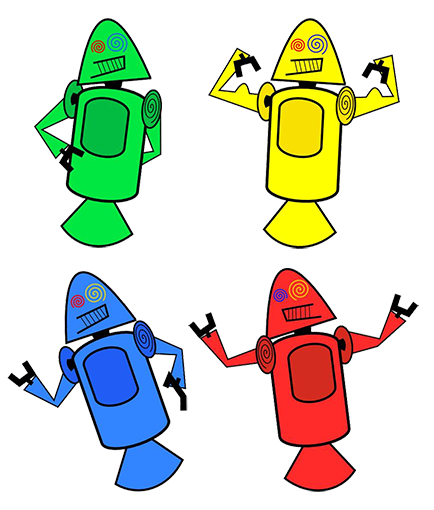
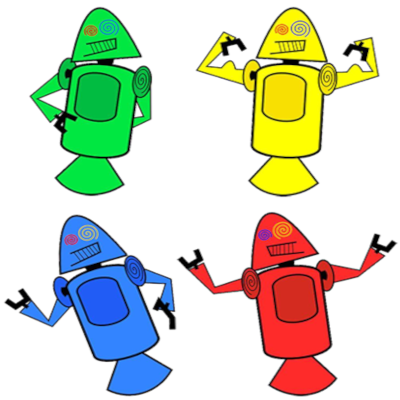
Adiciona imagem com width 335

Changed region(s): [[0.42, 0.0, 0.99, 1.0], [0.0, 0.0, 0.45, 0.99]]

diff --git a/index.html b/index.html
@@ -31,8 +31,9 @@
             Ele conta que abriu o <a class="external-link" href="https://inkscape.org/release/inkscape-1.2/" target="_blank"><strong>Inkscape</strong></a> software livre para vetorização de imagens) e criou sua própria versão de robô. O objetivo era apenas personificar o sistema apenas para a a sua equipe, não existia nenhuma solicitação da empresa para a criação de um mascote.</p>
         
         <picture class="imagem">
+            <source media="(max-width:500px)"srcset="imagens/dan-droids-pq-335.png" sizes="image/png">
             <source media="(max-width:650px)" srcset="imagens/dan-droids-pq.png" sizes="image/png">
-            <img src="imagens/dan-droids.png" alt="dan-droids-Os primeiros mascotes do android">
+            <img src="imagens/dan-droids-pq.png" alt="dan-droids-Os primeiros mascotes do android">
         </picture>
 
             <p>Essa primeira versão bizarra até foi batizada em homenagem ao seu criador: seriam os Dandroids.</p>
